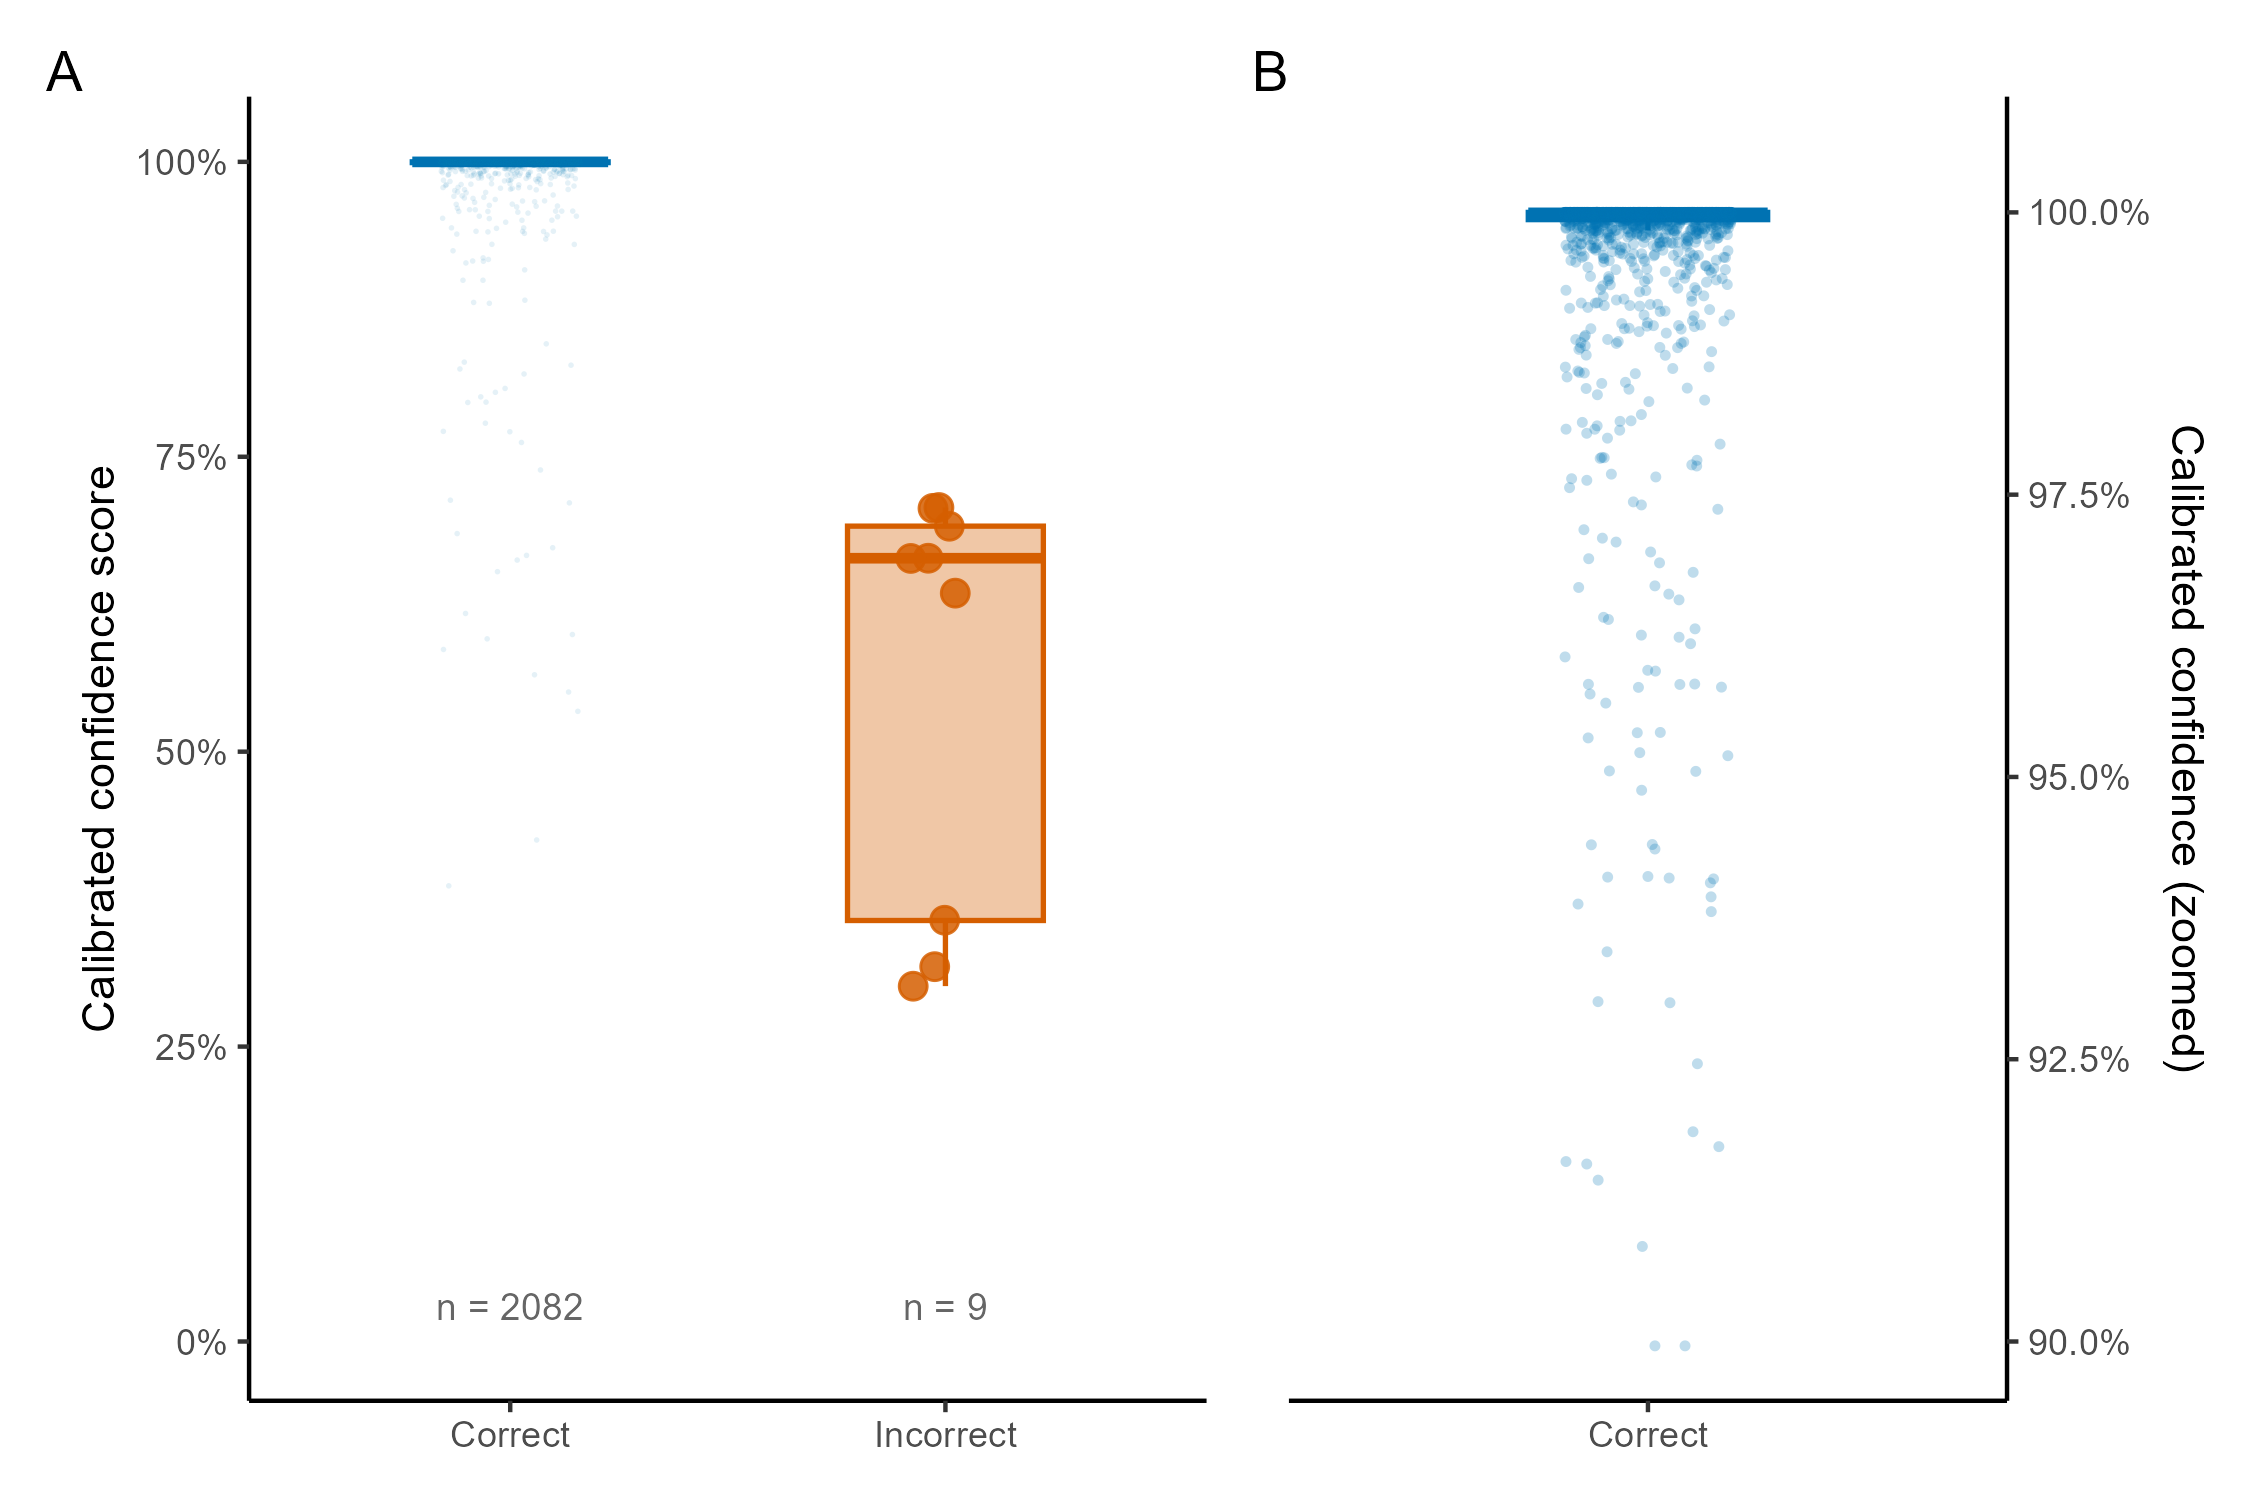
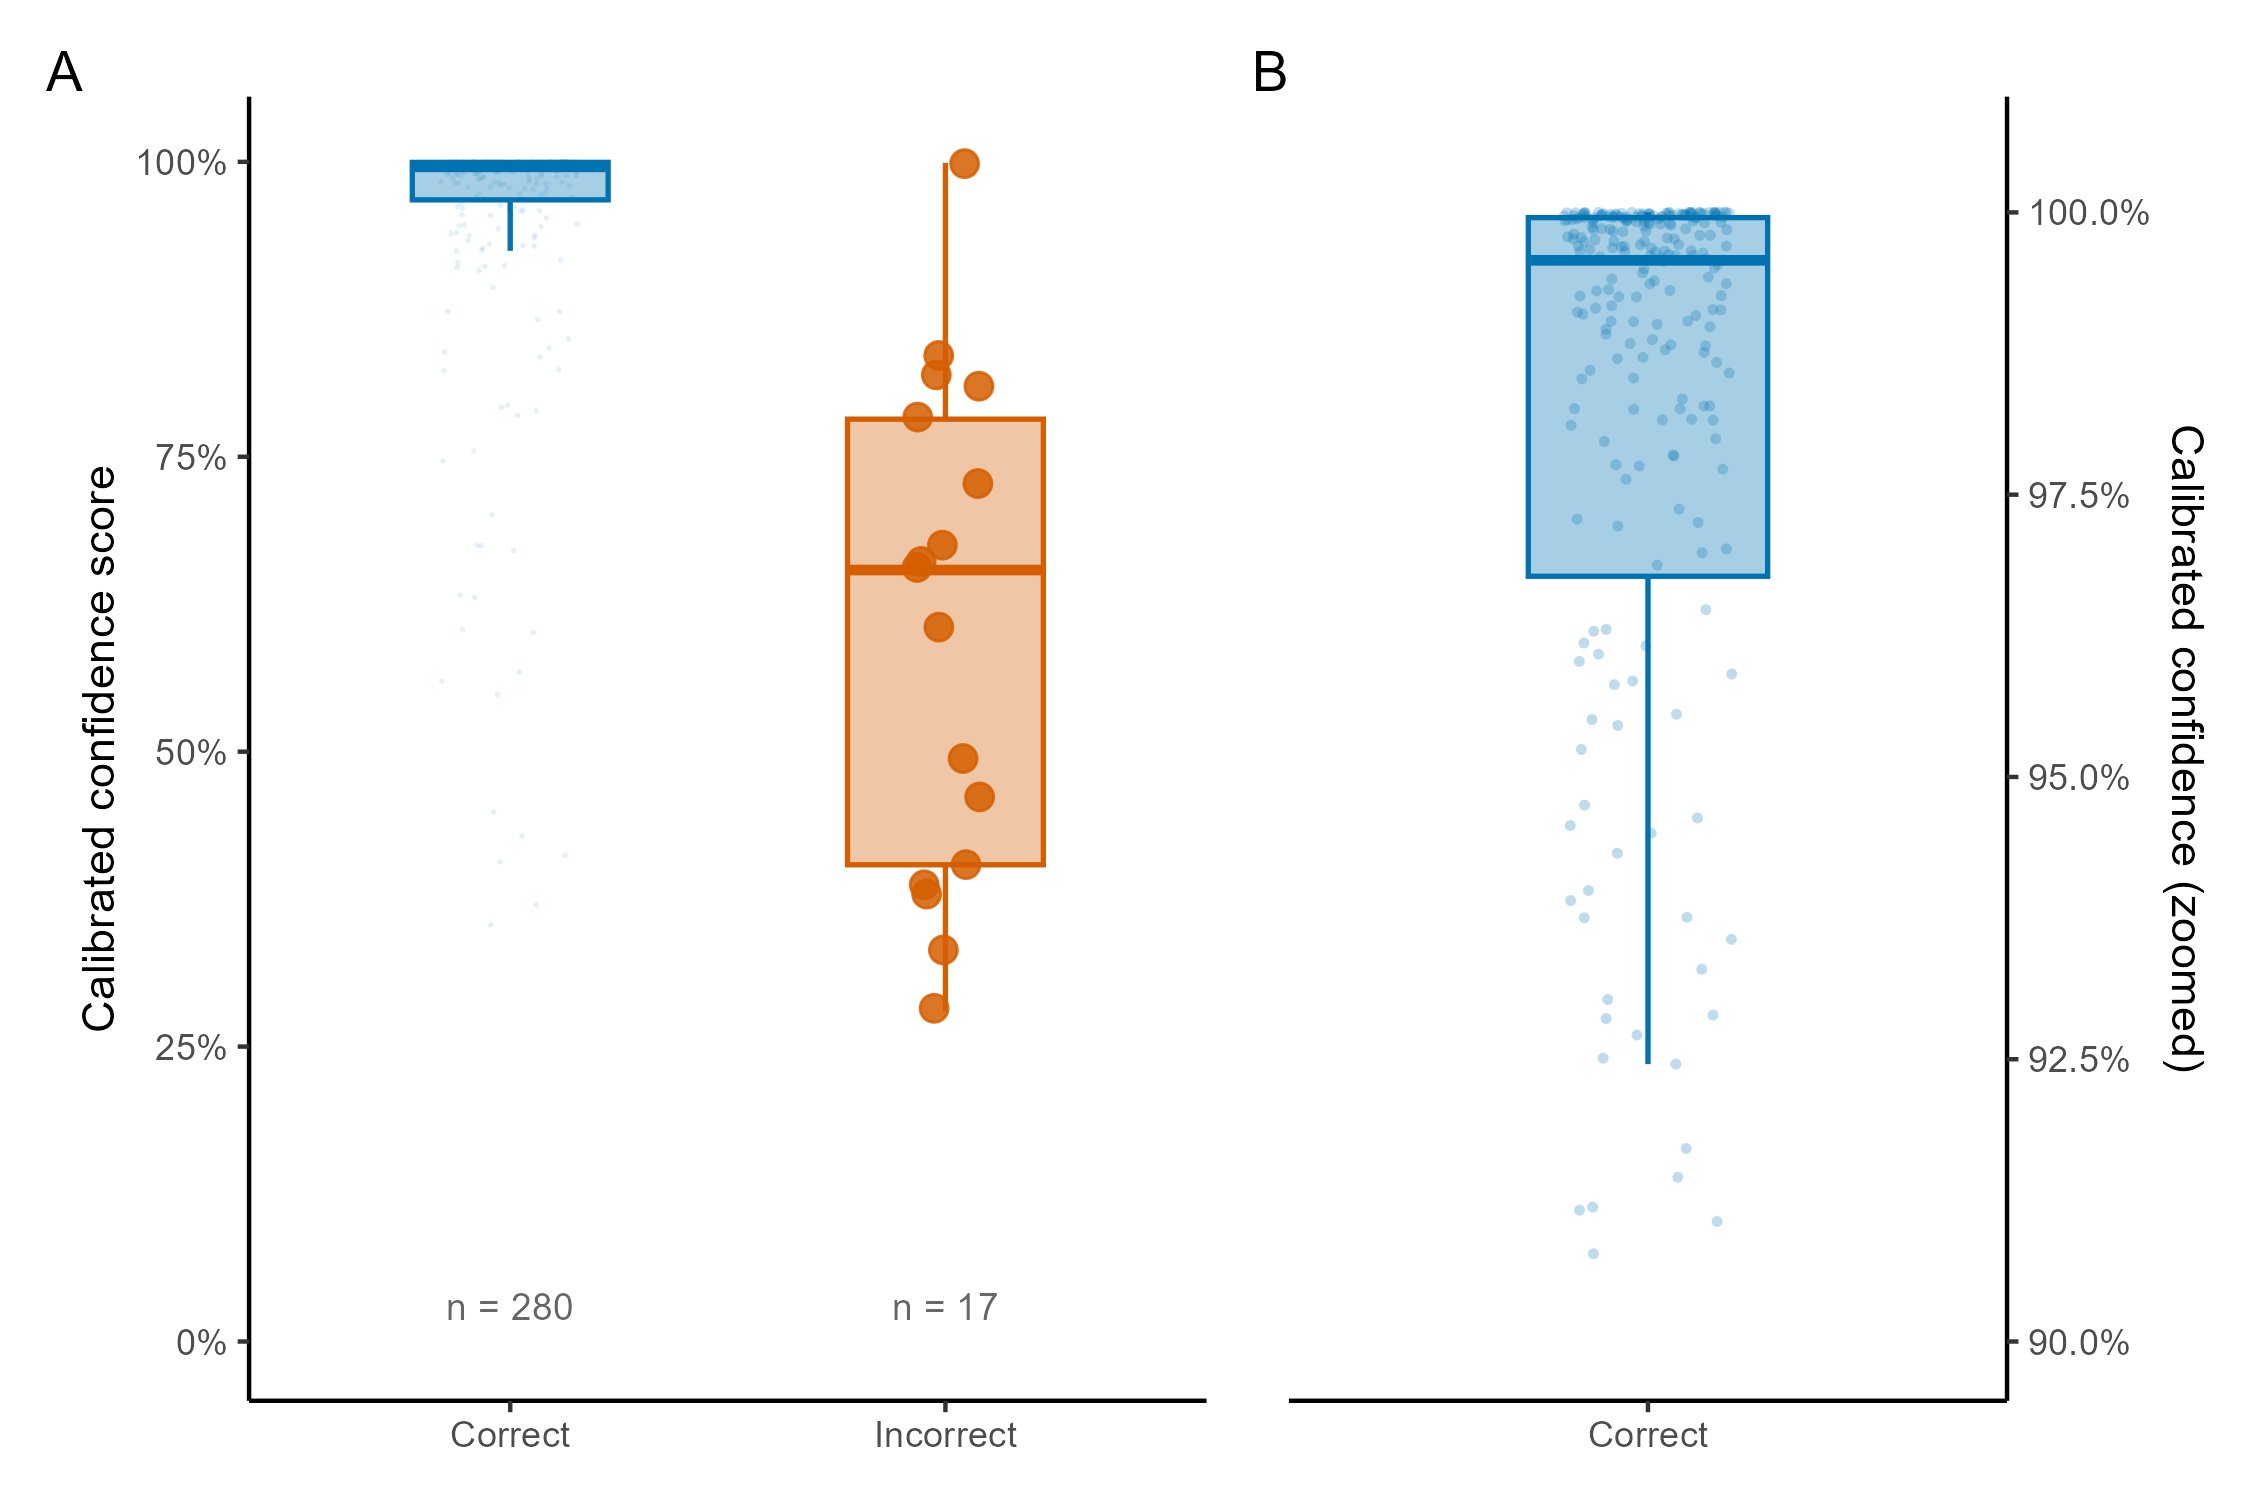
Add low-sample genus warning to app and update R analysis outputs
- Flag genera with <20 training images in app with a visible warning at
  inference time; add explanation to About tab
- Update R analysis outputs (confidence, Spearman, bin stats, scatter)
  to reflect corrected split-before-augment pipeline results
- Add ggplot2 reliability diagram (PDF and PNG)
- Refine reliability diagram R script (circle markers, inside legend)

diff --git a/app/app.py b/app/app.py
@@ -211,6 +211,12 @@ detection_model, classification_model, scaler, ood_detector, calibration_loaded 
 df_classes  = load_class_table()
 class_names = classification_model.names   # dict {int: str}
 
+LOW_SAMPLE_THRESHOLD = 20
+training_counts = {
+    row["Class Name"].lower(): int(row["Image Count"])
+    for _, row in df_classes.iterrows()
+}
+
 tab1, tab2 = st.tabs(["App", "About"])
 
 with tab1:
@@ -336,6 +342,15 @@ with tab1:
                                             f"Familiarity: {ood_familiarity_text(ood_score, ood_detector.threshold)}  \n"
                                             f"_(novelty score {ood_score:.0f} / limit {ood_detector.threshold:.0f})_"
                                         )
+                                    n_train = training_counts.get(top_genus.lower())
+                                    if n_train is not None and n_train < LOW_SAMPLE_THRESHOLD:
+                                        st.warning(
+                                            f"⚠ **Limited training data** — *{top_genus}* was "
+                                            f"represented by only {n_train} original images during "
+                                            f"training. Performance estimates for this genus are "
+                                            f"less reliable; verify this identification against "
+                                            f"reference material before finalising."
+                                        )
                                     with st.expander("Details"):
                                         for rank, (genus, conf) in enumerate(top_preds, 1):
                                             st.text(f"{rank}. {genus} ({conf}%)")
@@ -445,9 +460,26 @@ with tab2:
         "warning is shown.".format(T=scaler.temperature.item() if scaler else 1.0)
     )
 
+    st.markdown("#### Limited training data warning")
+    st.markdown(
+        "Some genera in the dataset are represented by a small number of original "
+        "specimen images (fewer than 20). Augmentation increases the size of the "
+        "training set but cannot substitute for genuine biological variation across "
+        "specimens. For these genera, cross-validation performance estimates are "
+        "substantially more variable, and a correct identification in one fold may "
+        "not reflect reliable generalisation.\n\n"
+        "When the top-ranked prediction belongs to a genus with fewer than 20 "
+        "original training images, the app displays a warning. In these cases, "
+        "the identification should be treated as a lead rather than a confirmed "
+        "result, and verified against reference material or expert opinion before "
+        "finalising."
+    )
+
     st.subheader("Trained genera")
     st.markdown(
         "The classification model was trained on the genera listed below. "
-        "Image counts are for the original dataset before augmentation."
+        "Image counts are for the original dataset before augmentation. "
+        f"Genera with fewer than {LOW_SAMPLE_THRESHOLD} images are flagged "
+        "with a warning at inference time."
     )
     st.dataframe(df_classes, height=600)